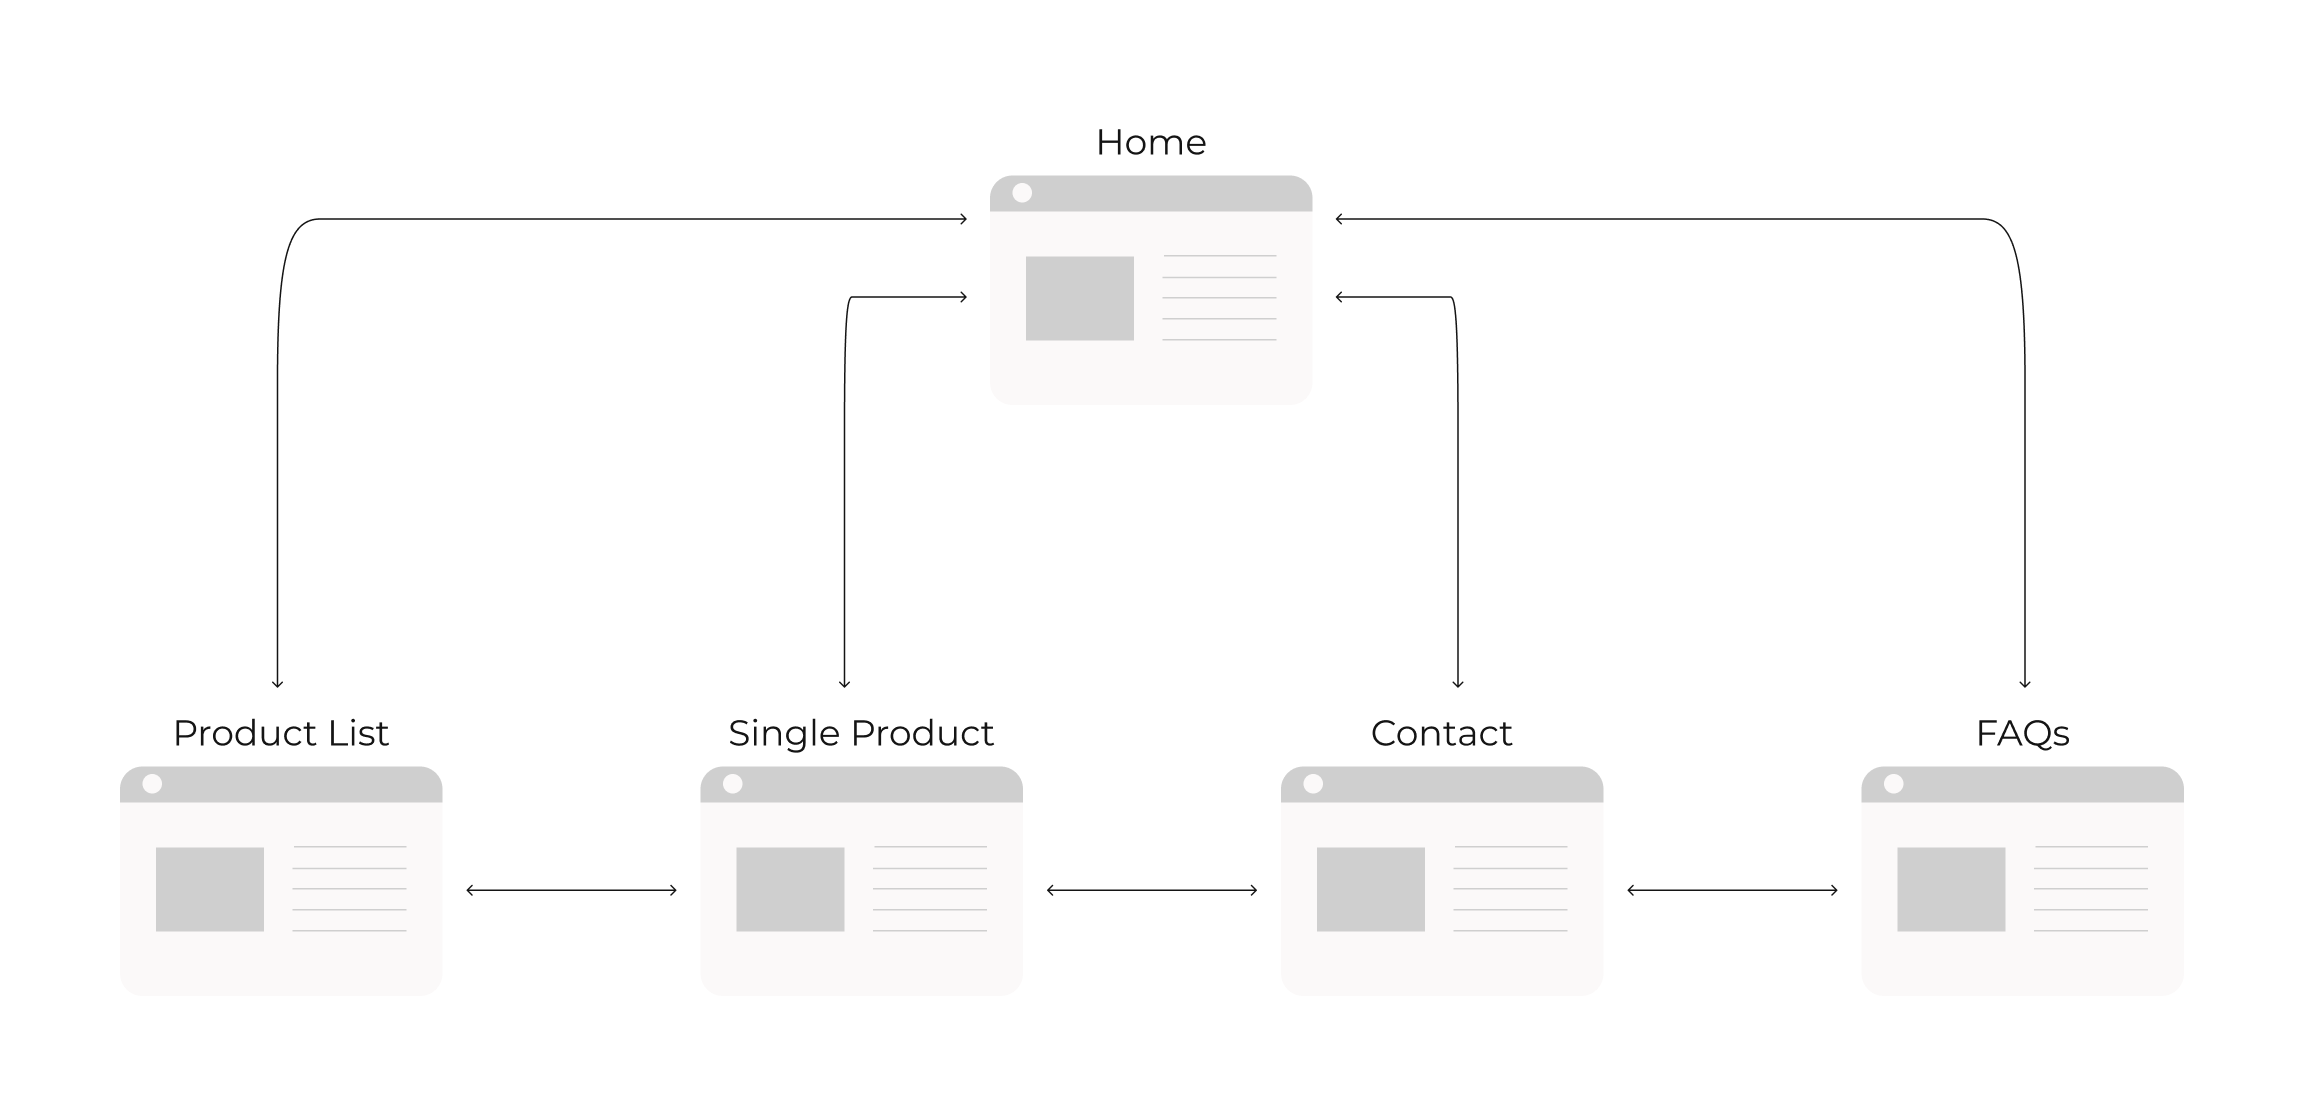
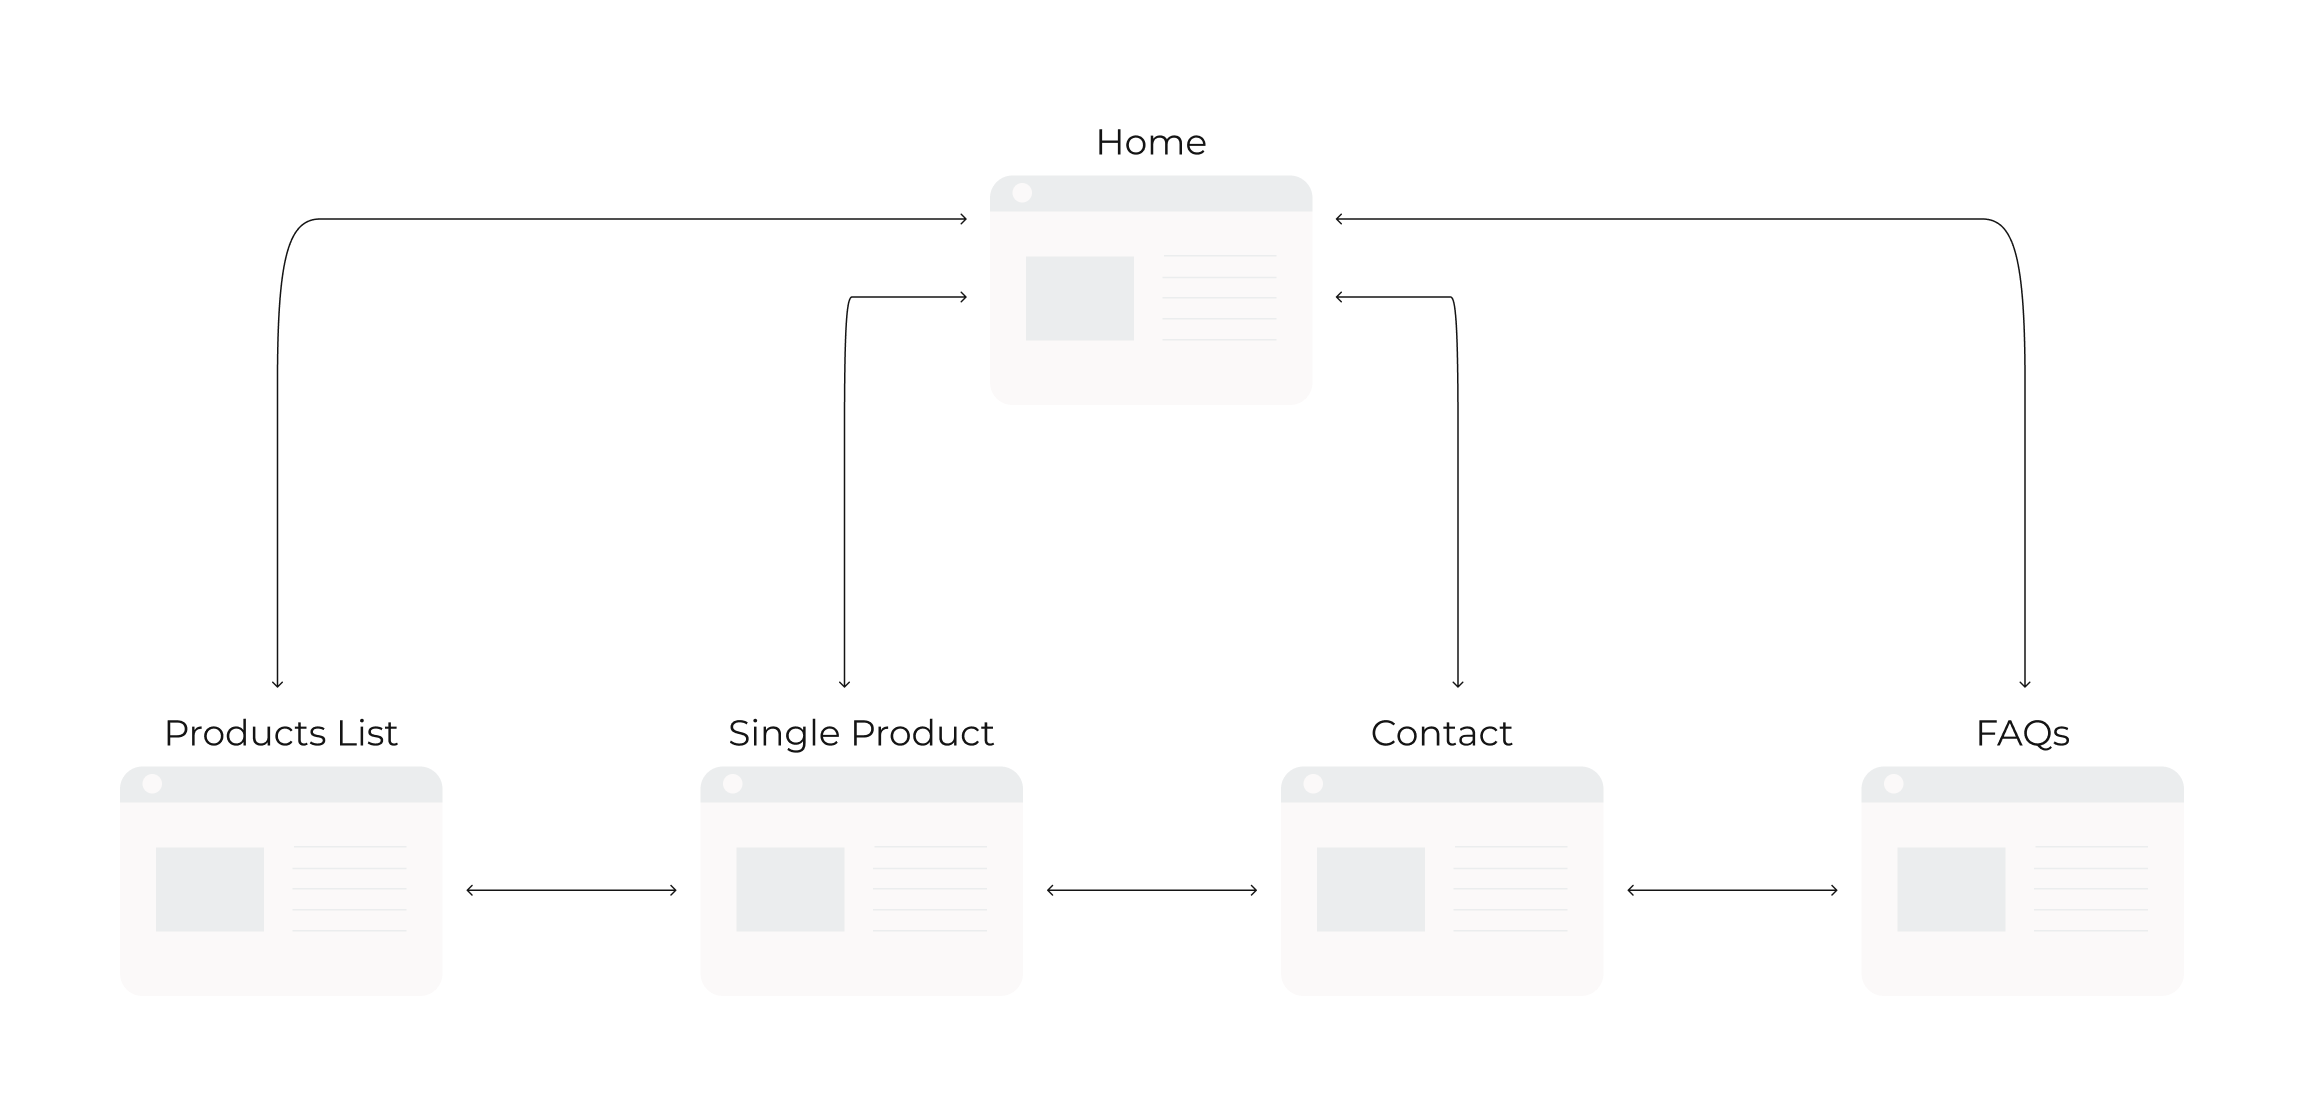
Change Product list to Products List

diff --git a/Yajban.html b/Yajban.html
@@ -379,7 +379,7 @@
                         </div>
                     </div>
                     <div class="design-image-container">
-                        <h4>Gallery</h4>
+                        <h4>Products List</h4>
                         <div class="columns-container after-text">
                             <div class="column">
                                 <div class="image-container">
@@ -465,7 +465,7 @@
                         </div>
                     </div>
                     <div class="design-image-container">
-                        <h4>Gallery</h4>
+                        <h4>Products List</h4>
                         <div class="columns-container after-text">
                             <div class="column">
                                 <div class="image-container">
